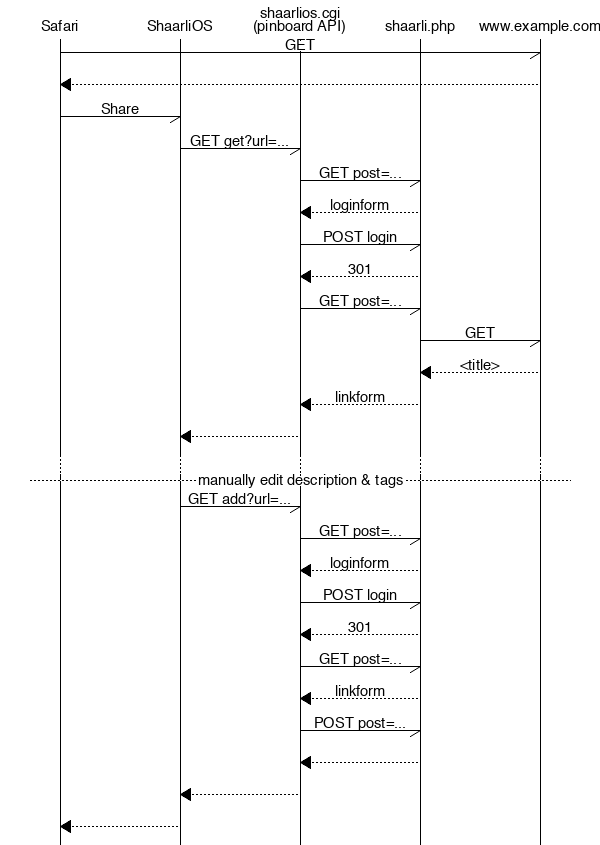
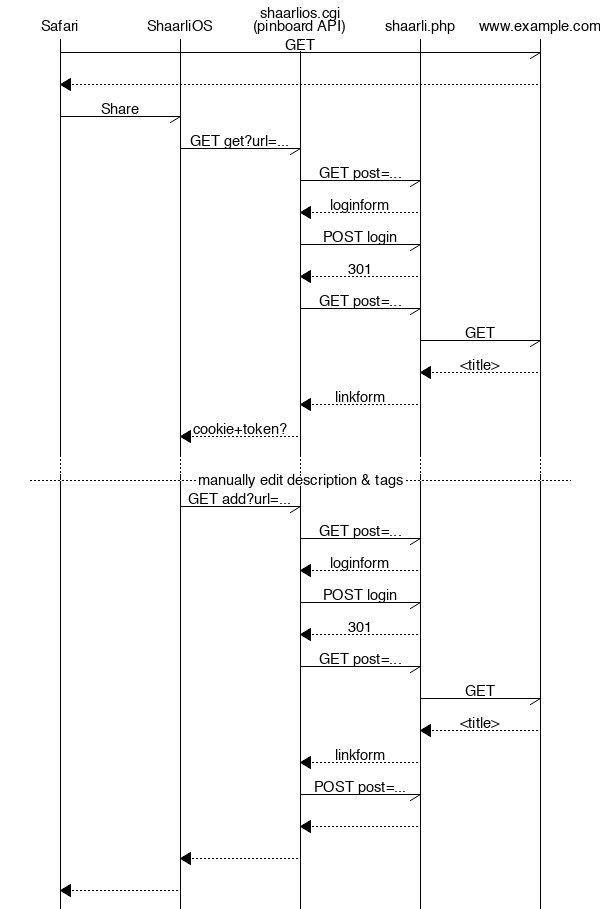
Pinboard API draft (swagger/openapi).
https://github.com/mro/Shaarli-API-test/issues/7
https://github.com/shaarli/Shaarli/issues/16 
https://github.com/shaarli/api-documentation/issues/1
https://github.com/shaarli/api-documentation/issues/6 
https://github.com/shaarli/python-shaarli-client/issues/34

diff --git a/ios/ShaarliOSTests/API/ShaarliCmdPostTest.m b/ios/ShaarliOSTests/API/ShaarliCmdPostTest.m
@@ -26,6 +26,14 @@
 @interface ShaarliCmdPostTest : XCTestCase
 @end
 
+// There's three steps to a post:
+// - ?post
+// - do=login
+// - do=post
+//
+// Each has sunshine and error cases (with and without recovery).
+//
+// The three are linked together, dependant if it's just a connection/login probe or a real post.
 @implementation ShaarliCmdPostTest
 
 -(void)testExample
